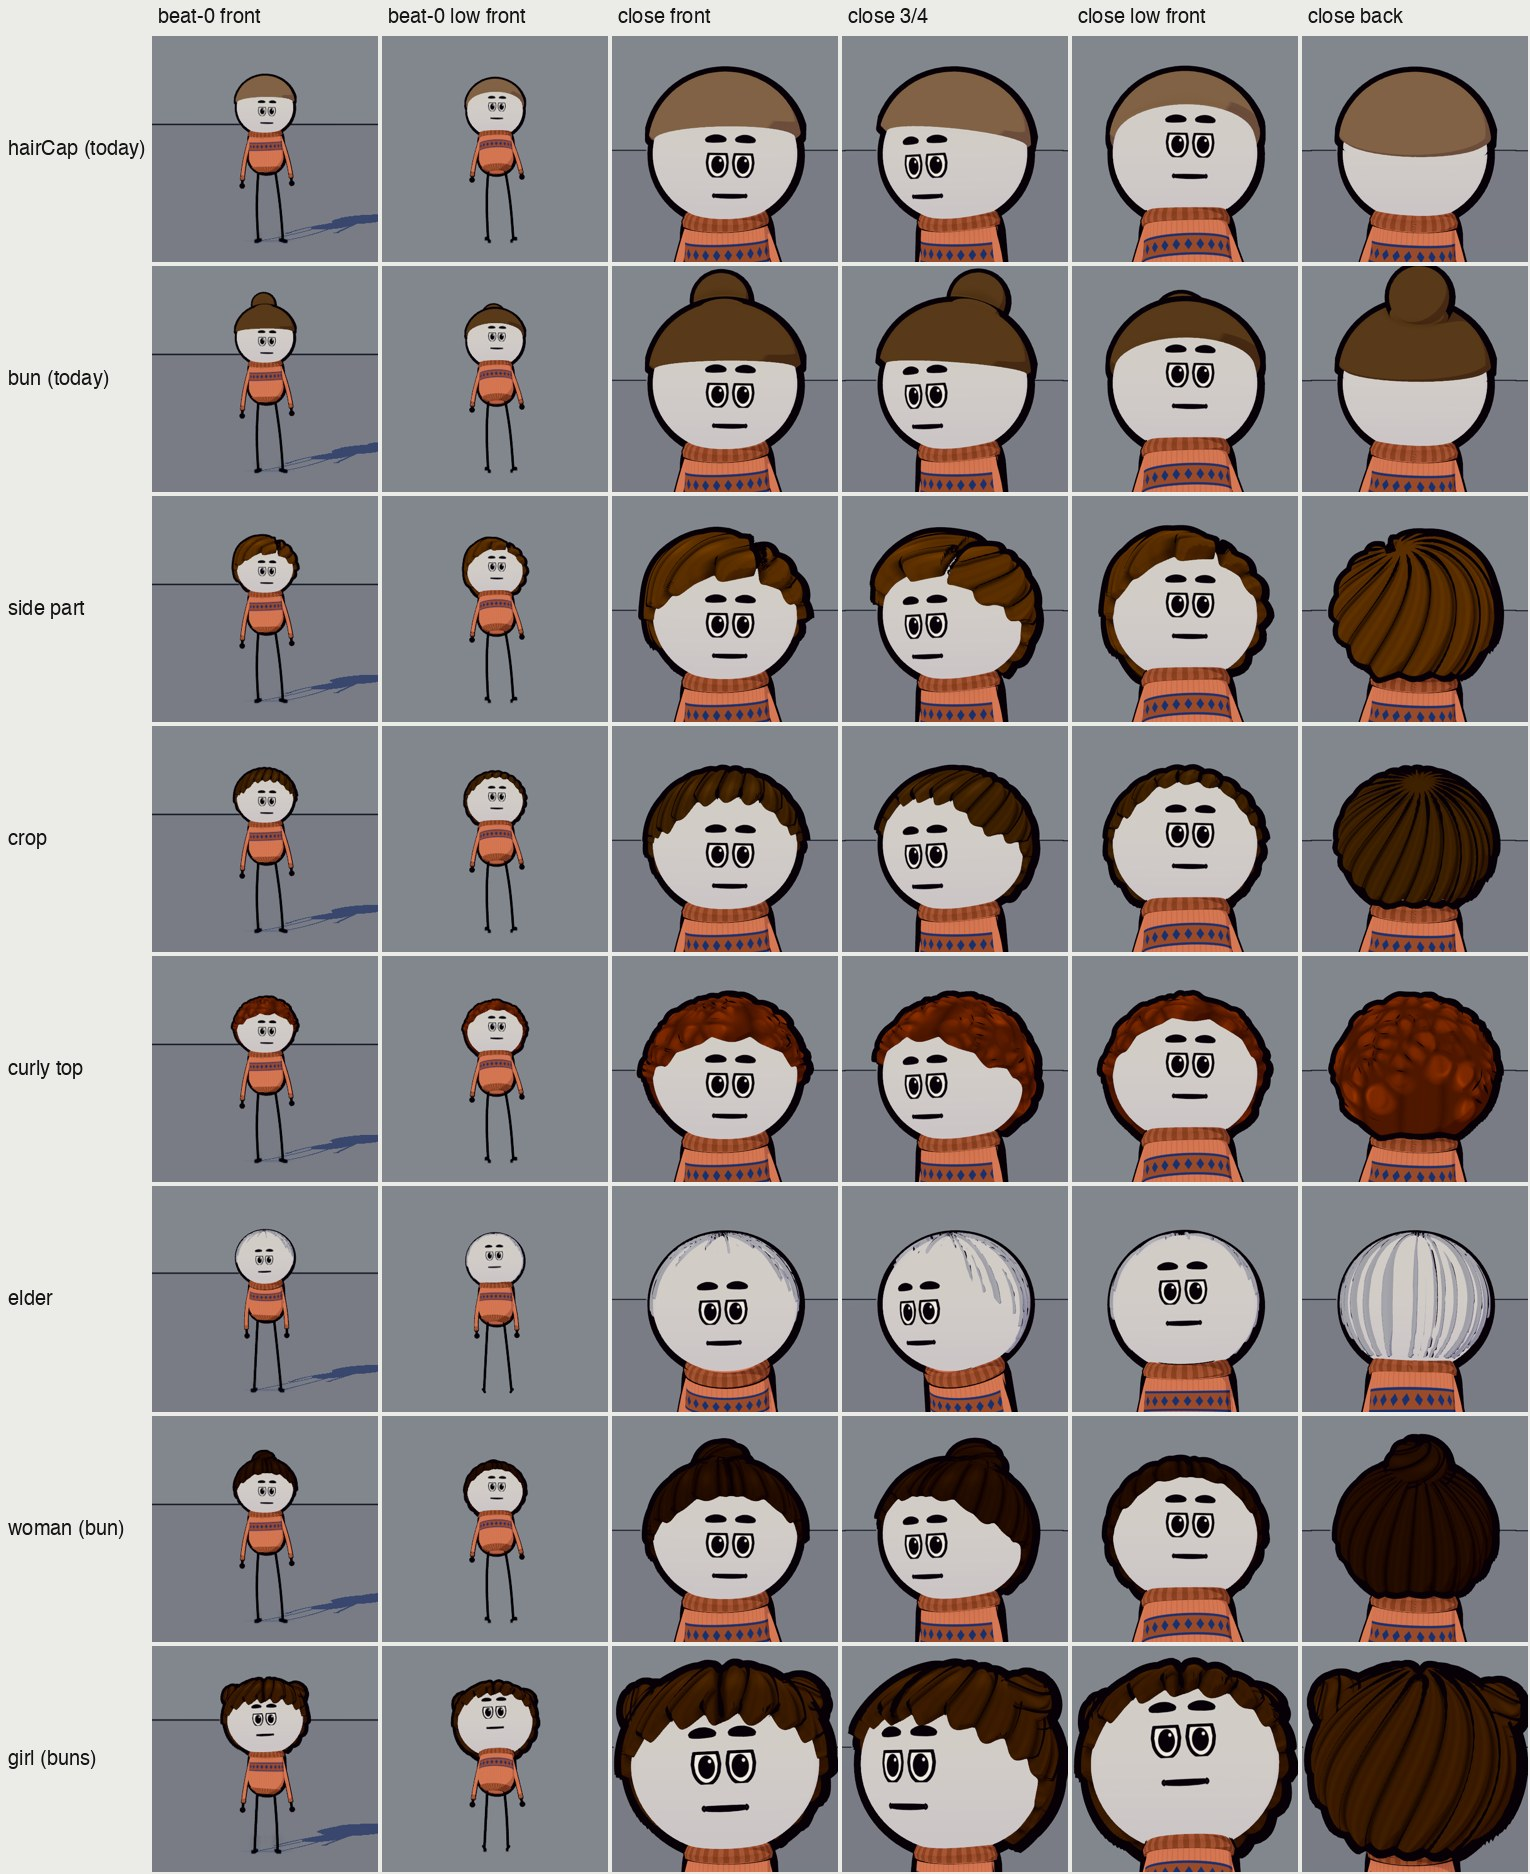
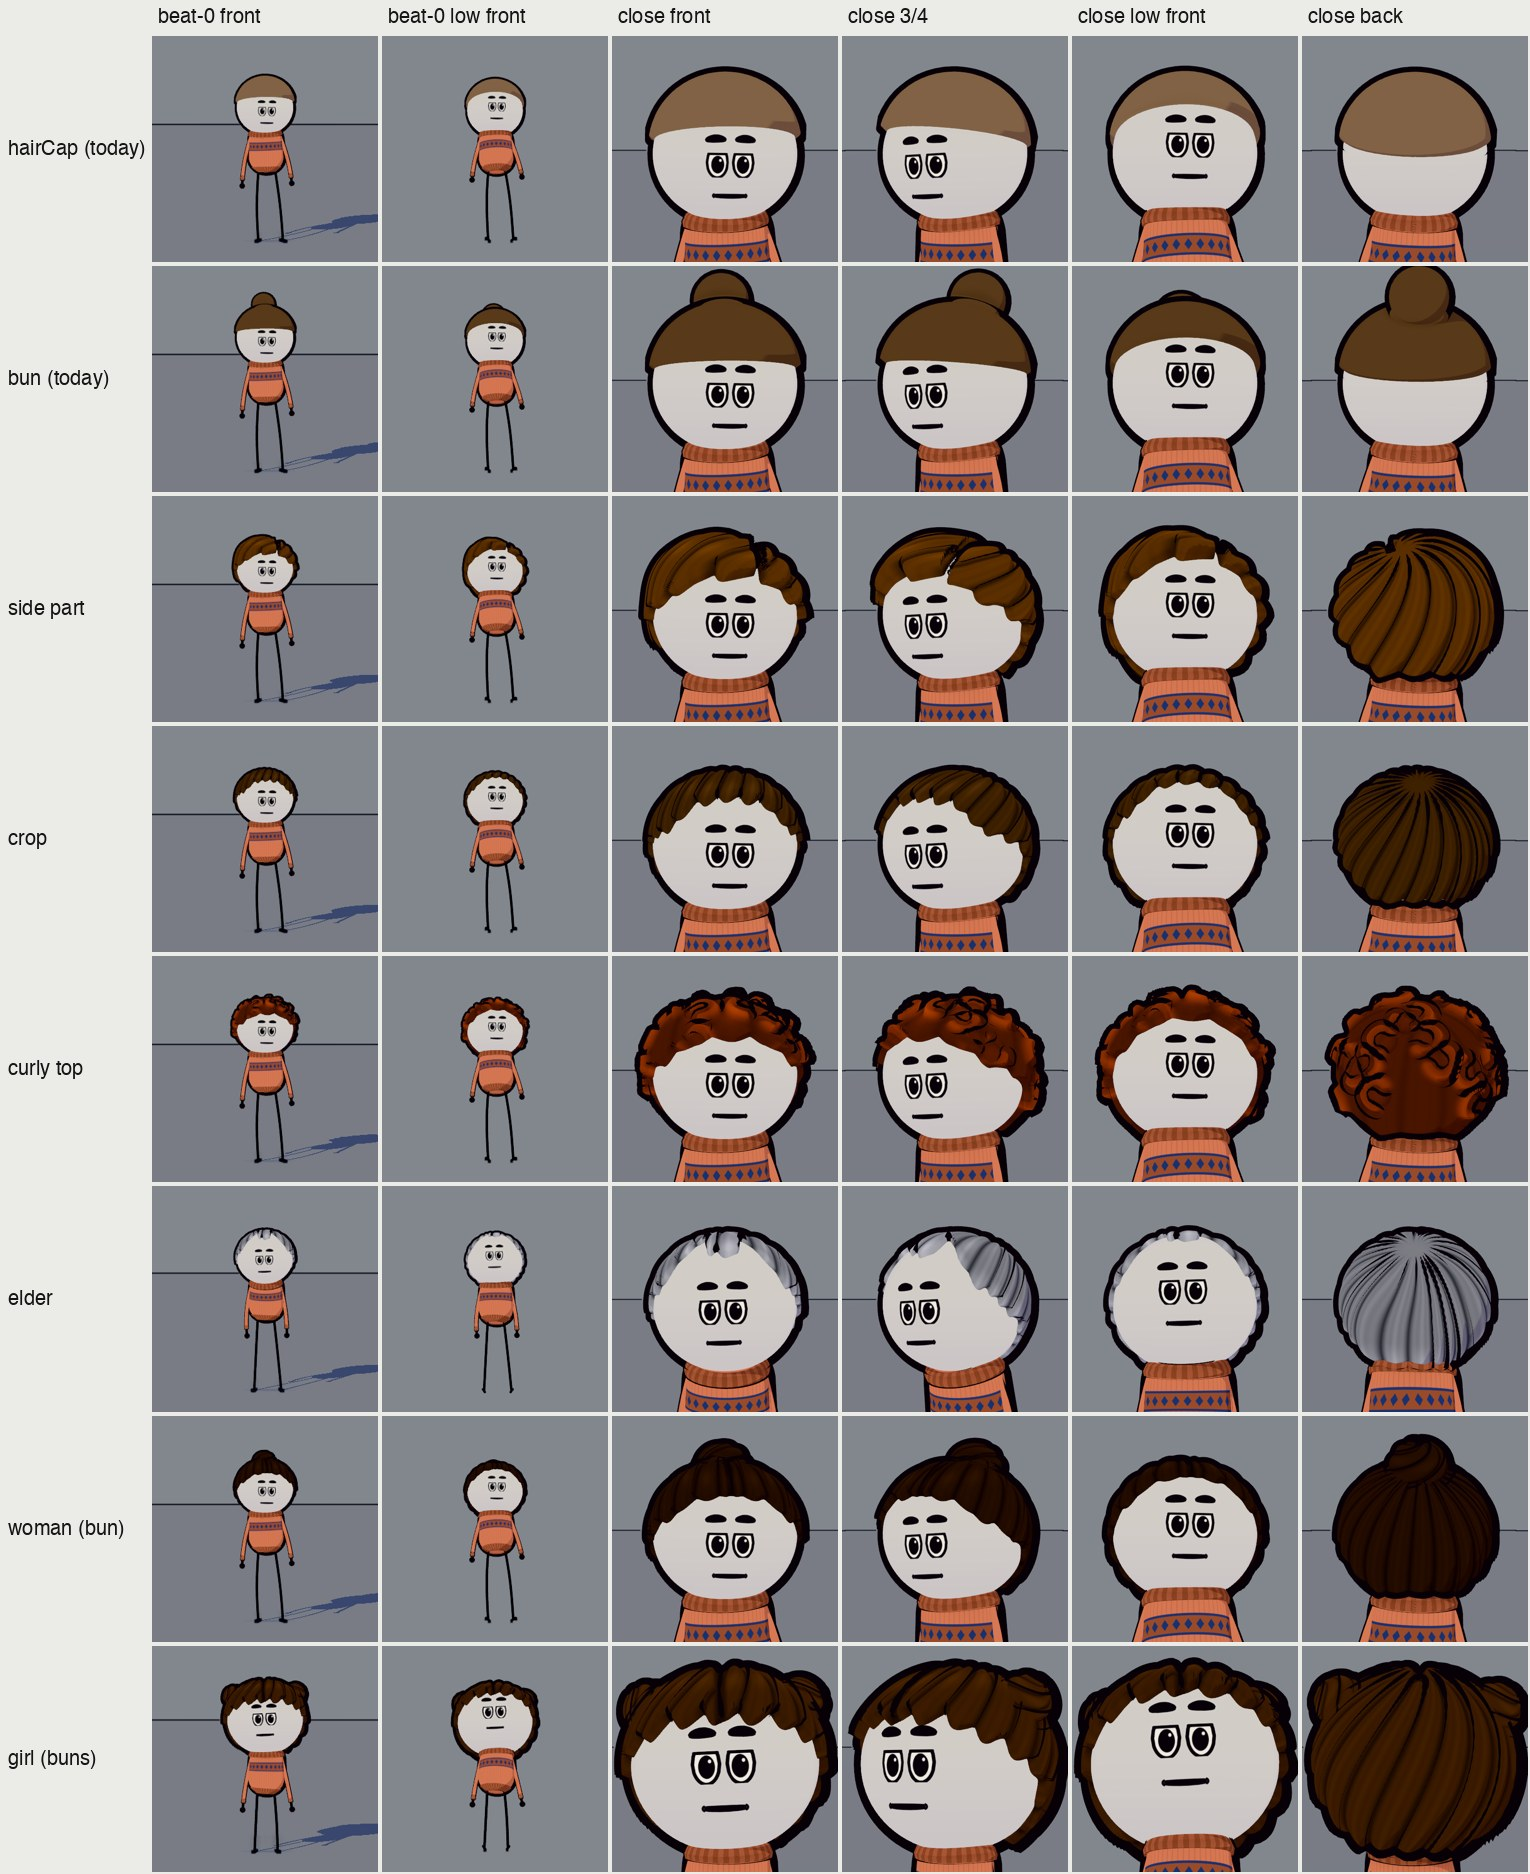
hair: elder on the crop's lock system in mid grey with light tips, receded temples, full round ears and nape; curly as fewer, larger C-shaped curl locks with their own outline and lit crest

diff --git a/styles/stick-man/kit/cast/hair.js b/styles/stick-man/kit/cast/hair.js
@@ -22,18 +22,18 @@ const rand = seed => () => ((seed = (seed * 16807) % 2147483647) - 1) / 21474836
 
 // in W. whorl: where the locks start; locks: how many round it; clump: a lock's height over its grooves; base: the mass's
 // thickness; lift: extra volume over the forehead; tips: how far the lock tips reach past the hairline; part: x of a parting
-// (W, + = the figure's left); lo: the hairline round the head; sweep: the swept side's extra height; sparse: only lock crests (scalp between); jit: uneven locks; soft: the painted grooves' share; ink: the ink hull's share (thin strands want a thin line); bumps: curl clumps [n, r, h, lowest y]; buns
+// (W, + = the figure's left); lo: the hairline round the head; sweep: the swept side's extra height; sparse: only lock crests (scalp between); jit: uneven locks; tipLight: lighter lock tips; ink: the ink hull's share (thin strands want a thin line); bumps: curl clumps [n, r, h, lowest y]; buns
 const STYLES = {
   // a clear parting on the figure's left, the rest swept over to the right in a raised wave
   side:  { col: [0.42, 0.25, 0.12], whorl: [0.22, 0.75, -0.62], locks: 14, twist: 0.35, clump: 0.034, base: 0.030, lift: 0.050, tips: 0.050, part: 0.17, sweep: 0.055, lo: edge({ front: 0.30 }) },
   // short and tight to the skull, a short fringe, the forehead shows; dark brown, not black, so the light finds the locks
   crop:  { col: [0.32, 0.21, 0.13], whorl: [0, 0.70, -0.70], locks: 22, twist: 0.15, clump: 0.022, base: 0.016, lift: 0.016, tips: 0.040, lo: edge({ front: 0.34, temple: 0.31, side: 0.02 }) },
   // a big round crown of curl clumps, wider than the head
-  curly: { col: [0.55, 0.22, 0.10], whorl: [0, 0.80, -0.60], locks: 12, twist: 0, clump: 0.006, base: 0.040, lift: 0.020, tips: 0.050, bumps: [150, 0.26, 0.026, -0.45], lo: edge({ front: 0.29, side: 0.0 }) },
-  // thin grey: sparse locks round the back and sides and over the crown (scalp between them), the temples receded. The whorl
-  // sits inside the neck, so the locks never meet in a knot anyone sees
-  elder: { col: [0.70, 0.70, 0.73], whorl: [0, -1, -0.05], locks: 30, twist: 0.04, jit: 0.22, clump: 0.010, base: 0.012, lift: 0, tips: 0.040, sparse: 0.66, ink: 0.15, soft: 0.35,
-           lo: [[0, 0.36], [18, 0.38], [38, 0.46], [62, 0.10], [88, -0.06], [125, -0.36], [180, -0.36]] },
+  curly: { col: [0.55, 0.22, 0.10], whorl: [0, 0.80, -0.60], locks: 12, twist: 0, clump: 0.006, base: 0.040, lift: 0.020, tips: 0.050, bumps: [42, 0.30, 0.060, -0.40], lo: edge({ front: 0.29, side: 0.0 }) },
+  // an old man's hair: the crop's locks in thin mid grey, lighter at the tips, the temples receded deep, fuller round the
+  // ears and the nape. The whorl sits inside the neck, so the locks never meet in a knot anyone sees
+  elder: { col: [0.56, 0.56, 0.59], whorl: [0, 0.70, -0.70], locks: 22, twist: 0.04, jit: 0.22, clump: 0.016, base: 0.013, lift: 0.006, tips: 0.040, tipLight: 0.5,
+           lo: [[0, 0.34], [16, 0.36], [36, 0.44], [62, 0.10], [88, -0.08], [125, -0.40], [180, -0.40]] },
   woman: { col: [0.20, 0.11, 0.06], whorl: [0, 0.75, -0.65], locks: 20, twist: 0, clump: 0.016, base: 0.022, lift: 0.018, tips: 0.014, part: 0, lo: edge({ front: 0.30, side: -0.04 }),
            buns: [{ dir: [0, 0.80, -0.60], r: 0.20, out: 0.05 }] },   // high on the back of the crown: it shows over the head from the front
   girl:  { col: [0.30, 0.17, 0.08], whorl: [0, 1, -0.25], locks: 18, twist: 0.2, clump: 0.026, base: 0.026, lift: 0.030, tips: 0.060, part: 0, lo: edge({ front: 0.21, temple: 0.20, side: -0.02 }),
@@ -65,18 +65,19 @@ function scalp(st) {
     }
     const front = sm(60, 20, lon) * Math.exp(-(((y - table(st.lo, lon)) / 0.10) ** 2));
     let t = st.base + st.lift * front + st.clump * amp * c, shade = -Math.pow(1 - c, 3) * amp + 0.12 * Math.cos(2 * Math.PI * ph * 3) * amp * c;
-    if (bumps.length) {   // curl clumps packed edge to edge (cells round the nearest clump centre): each a round top, the
-      // lines where two meet are valleys (concave, so the ink hull draws no ring there), painted dark, a lit crescent painted on each
+    if (bumps.length) {   // curl locks, each in its own cell round the nearest centre
       let f1 = 9, f2 = 9, nb = null; for (const b of bumps) { const g = Math.acos(Math.min(1, d.dot(b))); if (g < f1) { f2 = f1; f1 = g; nb = b; } else if (g < f2) f2 = g; }
-      const R = st.bumps[1], h = sm(0, 0.7 * R, f2 - f1) * Math.max(0, 1 - (f1 / R) ** 2);
+      // each clump a C-shaped lock: a raised ring open on one side (turned at random) round a lower middle, the cells kept
+      // apart by a valley, so every curl has its own outline and a lit crest
+      const R = st.bumps[1], u = f1 / R, apart = sm(0, 0.35 * R, f2 - f1);
       const o = d.clone().addScaledVector(nb, -d.dot(nb)), e1 = new THREE.Vector3(0, 1, 0).addScaledVector(nb, -nb.y).normalize(), a = Math.atan2(o.dot(nb.clone().cross(e1)), o.dot(e1)) - nb.w;
-      const ring = Math.exp(-(((f1 / R - 0.5) / 0.10) ** 2)) * h, arc = ring * Math.max(0, Math.cos(a)) ** 2, under = ring * Math.max(0, -Math.cos(a)) ** 2;   // a crescent: the curl's lit edge
-      t += st.bumps[2] * h; shade = 0.25 * shade - 0.7 * (1 - h) ** 2 + 0.75 * arc - 0.35 * under;
+      const ridge = Math.exp(-(((u - 0.55) / 0.2) ** 2)) * sm(-0.8, -0.35, Math.cos(a)), mid = 0.45 * Math.max(0, 1 - (u / 0.6) ** 2), h = apart * Math.max(ridge, mid);
+      t += st.bumps[2] * h; shade = 0.2 * shade - 0.8 * (1 - h) ** 2 + 0.5 * ridge * apart * sm(0.5, 0.65, u) * (0.5 + 0.5 * Math.cos(a)) - 0.3 * (mid > ridge ? 1 : 0) * apart;
     }
     if (st.sweep) t += st.sweep * sm(st.part, st.part - 0.35, d.x * rh / W) * sm(0.05, 0.35, y) * sm(-0.6, 0.2, d.z);   // the swept side stands higher
     if (st.part != null && d.y > 0.25 && d.z > -0.55) { const p = sm(0.012, 0.040, Math.abs(d.x * rh / W - st.part)); t *= 0.25 + 0.75 * p; shade = Math.min(shade, -(1 - p)); if (st.sweep) cover *= sm(0.004, 0.016, Math.abs(d.x * rh / W - st.part)); }
     shade += 0.45 * Math.exp(-(((Math.asin(d.y) / DEG - 52) / 9) ** 2)) * c * c * sm(130, 60, lon);   // the light band round the crown
-    if (st.soft) shade *= st.soft;
+    if (st.tipLight) shade += st.tipLight * sm(0.16, 0.0, y - table(st.lo, lon)) * c;   // the lock tips catch the light: grey hair, not a cap
     const k = cover;                                             // a soft wall: a sharp one stair-steps on the sphere grid
     return { r: rh * TUCK + (rh + t * W - rh * TUCK) * k, k, shade, ink: st.ink ?? 1 };
   };
